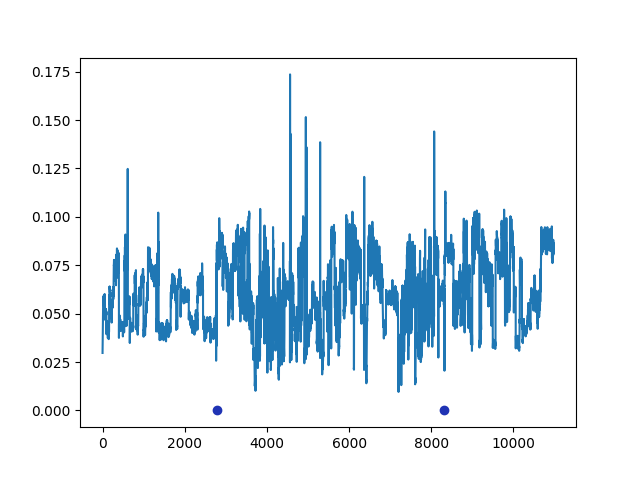
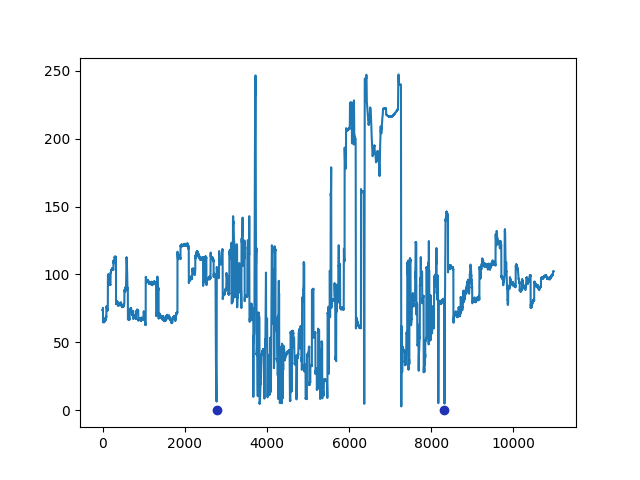
^^

diff --git a/extract_features.py b/extract_features.py
@@ -16,7 +16,7 @@ def cal_mean_std(img):
 
 
 def cal_high_freq(img):
-    assert len(img.shape) == 2 "Expect gray scale image"
+    assert len(img.shape) == 2, "Expect gray scale image"
     h, w = img.shape
     tensor_img = torch.Tensor(img)
     tensor_img = tensor_img.view(1, 1, h, w)
@@ -44,33 +44,48 @@ avg_pool = nn.AvgPool2d((2, 2))
 
 count = 0
 features = []
-video_name = "test_6"
+video_name = "test_5"
 cap = cv2.VideoCapture(f"videos/{video_name}.avi")
 while True:
     res, img = cap.read()
     if not res:
         break
 
+    # Color Space
+    b, g, r = cv2.split(img)
     gray_img = cv2.cvtColor(img, cv2.COLOR_BGR2GRAY)
 
+    # Blur - Low pass filter
     blur_img = cv2.GaussianBlur(img, (3, 3), 0)
     gray_blur_img = cv2.GaussianBlur(gray_img, (3, 3), 0)
+    gray_median_blur_img = cv2.medianBlur(gray_img, 3)
 
+    # Detail and noise - High pass filter
     gray_mvg_img = cal_high_freq(gray_img)
     gray_blur_mvg_img = cal_high_freq(gray_blur_img)
+    gray_median_blur_mvg_img = cal_high_freq(gray_median_blur_img)
 
-    b, g, r = cv2.split(img)
+    # Enhancement
     gamma_img = img ** (1 / gamma)
     blur_gamma_img = blur_img ** (1 / gamma)
     gray_blur_gamma_img = gray_blur_img ** (1 / gamma)
+    gray_median_blur_gamma__mvg_img = gray_median_blur_mvg_img ** (
+        1 / gray_median_blur_mvg_img
+    )
 
     gamma_img = normalized_image(gamma_img)
     blur_gamma_img = normalized_image(blur_gamma_img)
     gray_blur_gamma_img = normalized_image(gray_blur_gamma_img)
+    gray_median_blur_gamma__mvg_img = normalized_image(gray_median_blur_mvg_img)
 
-    low_freq = [blur_img, gray_blur_img]
-    high_freq = [gray_mvg_img, gray_blur_mvg_img]
-    enhancement = [gamma_img, blur_gamma_img, gray_blur_gamma_img]
+    low_freq = [blur_img, gray_blur_img, gray_median_blur_img]
+    high_freq = [gray_mvg_img, gray_blur_mvg_img, gray_median_blur_mvg_img]
+    enhancement = [
+        gamma_img,
+        blur_gamma_img,
+        gray_blur_gamma_img,
+        gray_median_blur_gamma__mvg_img,
+    ]
 
     feature = []
     all_in_one = [low_freq, high_freq, enhancement]

diff --git a/look_up_all_f.py b/look_up_all_f.py
@@ -52,15 +52,14 @@ gt = {"test_5": [2800, 7870], "test_6": [2776, 8320], "Video_1": [939, 5438]}
 video_name = "test_6"
 with open("features.npy", "rb") as f:
     features = np.load(f, allow_pickle=True)
+print(features.shape)
 
 total_imgs = len(features)
-print(features.shape)
 diff_features = ((features[: total_imgs - 1, :] - features[1:, :]) ** 2) ** 0.5
 total_diff_features = len(diff_features)
 
 
 # diff
-print(diff_features.shape)
 total_diff_features = len(diff_features)
 for i in range(len(diff_features[0])):
     upper = total_diff_features - 1
@@ -72,7 +71,6 @@ for i in range(len(diff_features[0])):
     plt.clf()
 
 # origin
-print(features.shape)
 for i in range(len(features[0])):
     x = np.arange(total_imgs)
     plt.plot(x, features[:, i])
@@ -82,12 +80,13 @@ for i in range(len(features[0])):
     plt.clf()
 
 
-new = get_segmentation(diff_features, 0, 45)
+new = get_segmentation(diff_features, 13, 280)
 print(new)
 assert len(new) % 2 == 0
 new = new.reshape((len(new) // 2, 2))
-new = merge_small_seg(new)
-new = merge_gap_between_seg(new)
+for i in range(5):
+    new = merge_small_seg(new, 30)
+    new = merge_gap_between_seg(new, 30)
 print(new)
 
 upper = total_diff_features - 1
